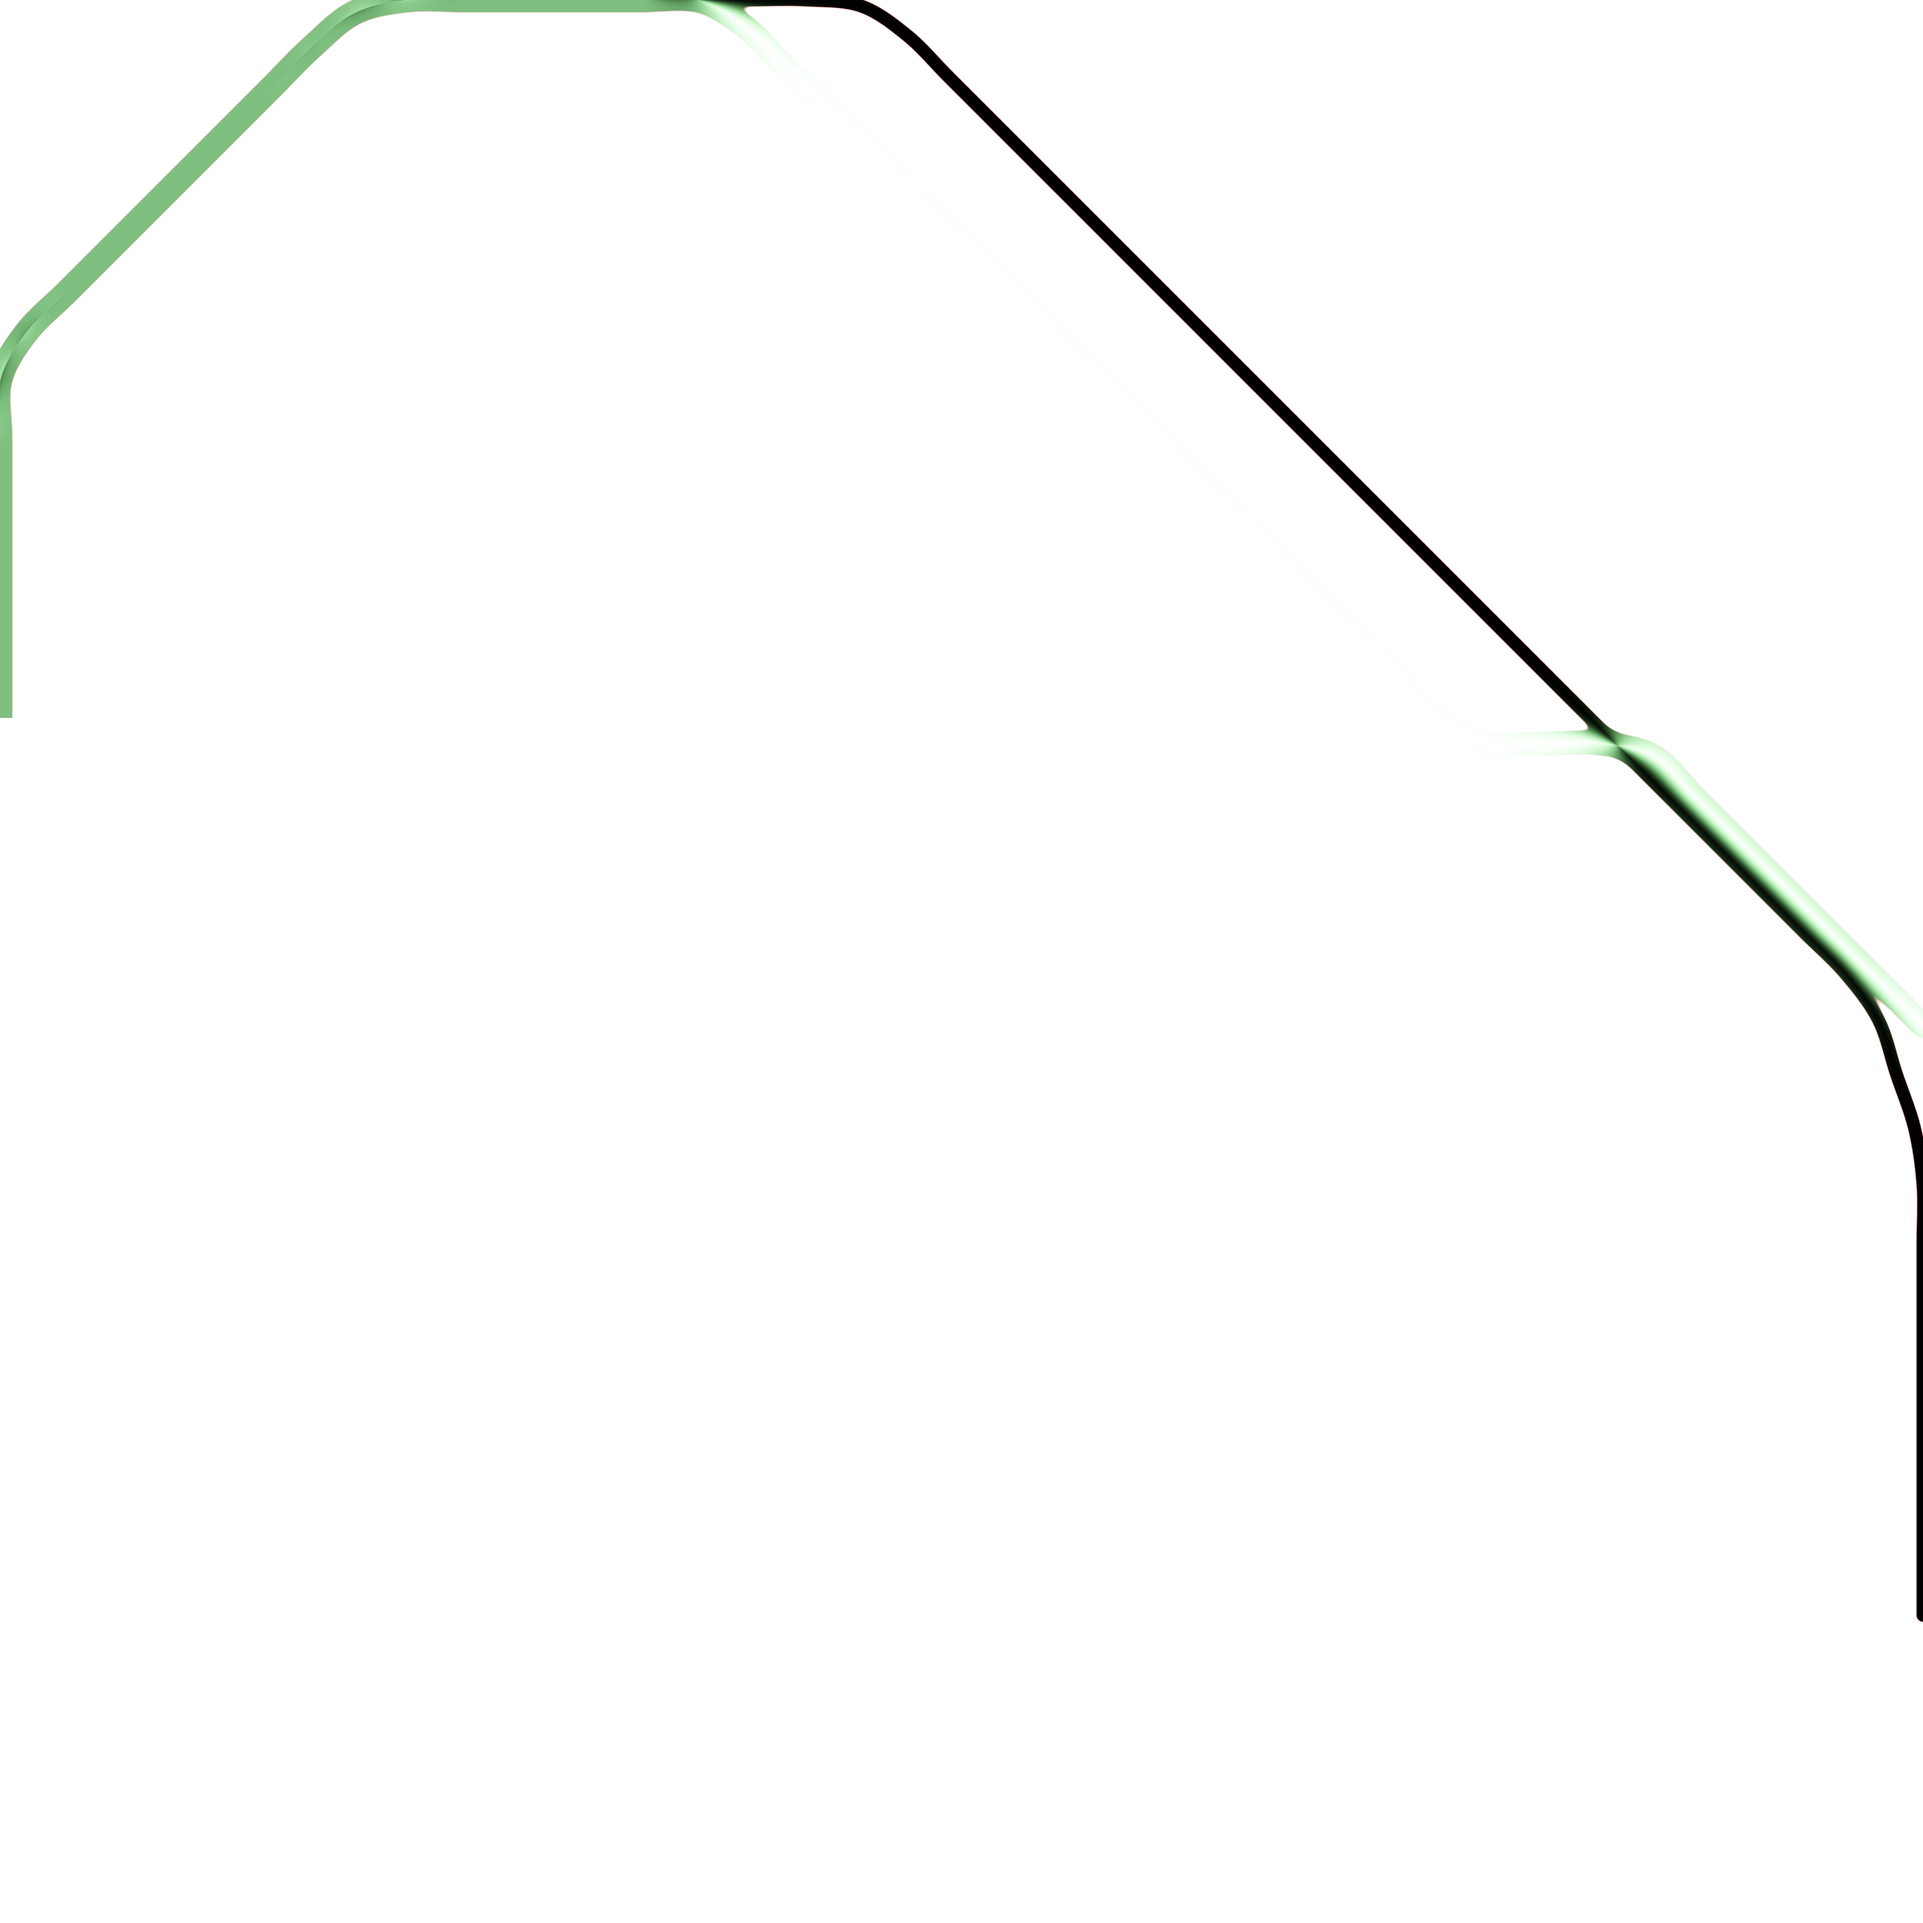
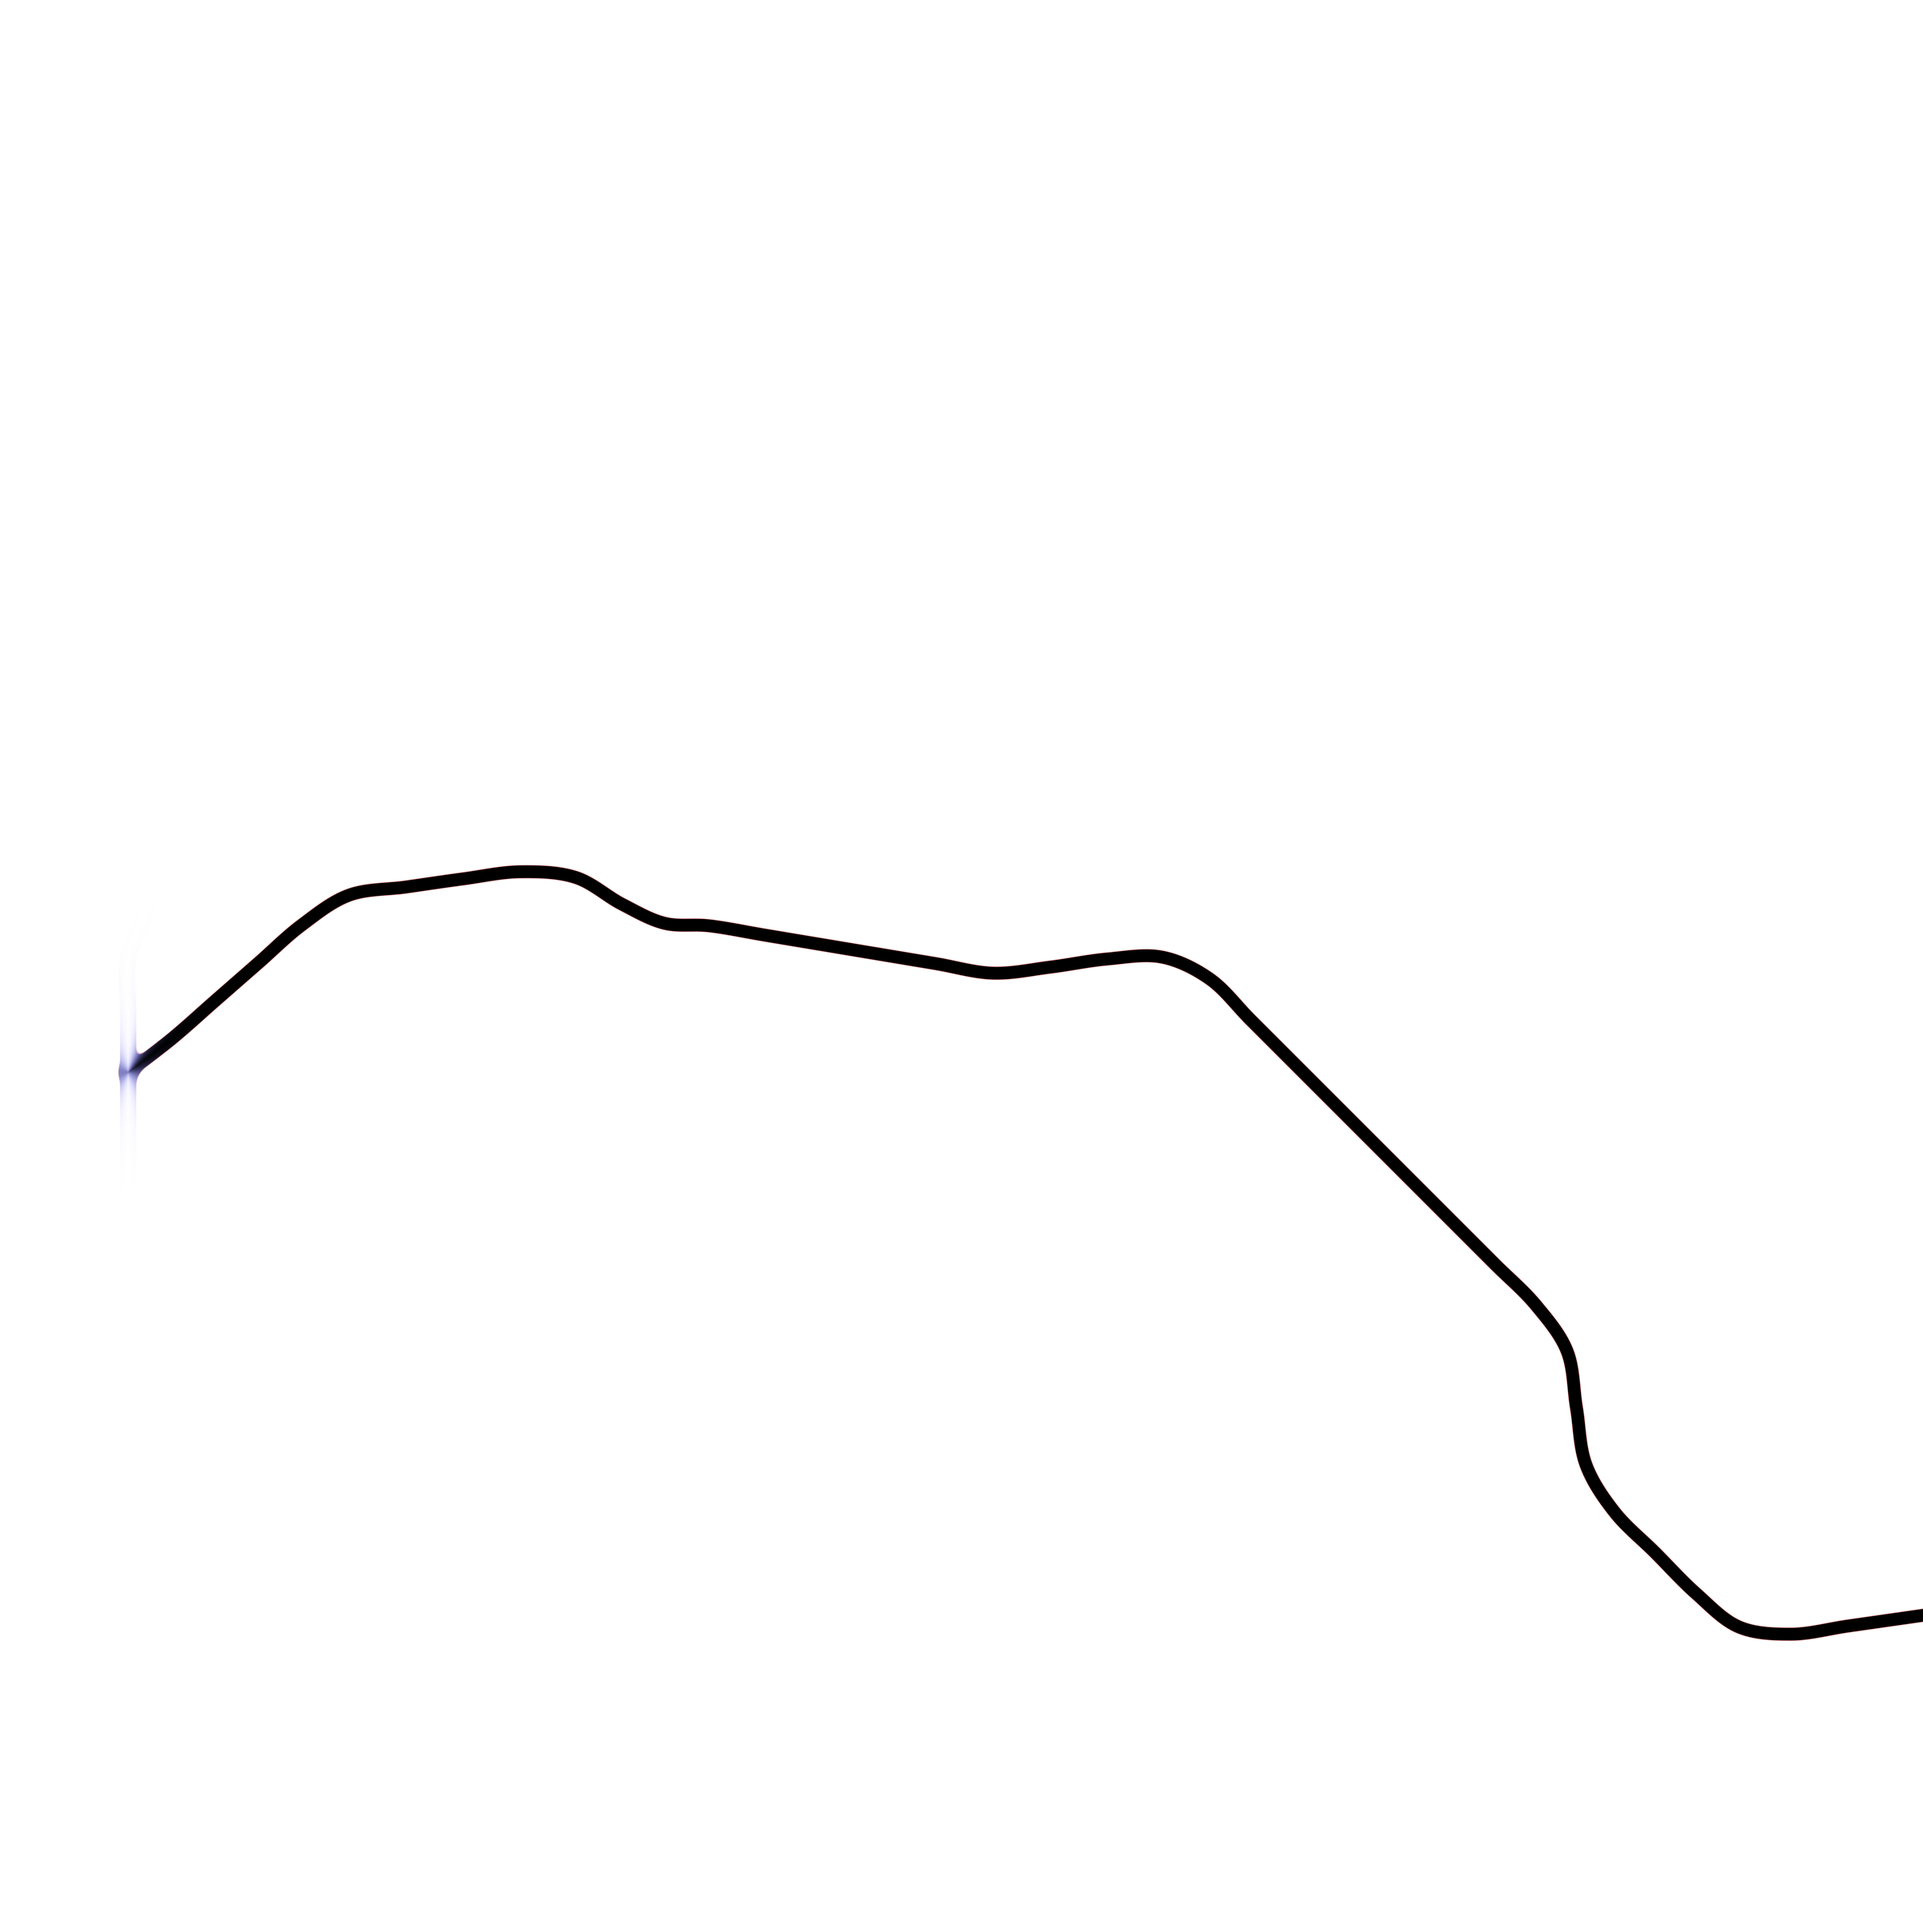
Scale the bake to 1200 m; fix two generator defects it exposed
WORLD is now env-driven, so run.js bakes any extent. 1200 m is 23.0 M cells,
~700 MB of typed arrays, 36 s. Every invariant holds: seams 9.1e-7 m, cracks
9.3e-7 m, streaming bit-identical to a cold build, grass-vs-mesh p99 under
0.28 px at every distance, 156 k mesh vertices against 23.0 M uniform.

Road curvature p99.9 is what found both defects, going 53.7 -> 37.5 -> 3.1
against the 600 m map's 3.1:

- Relief was summed, not normalised. Hills add, so raising --hills raised the
  whole world rather than populating it - 30 ellipses stacked to 149 m of relief
  over 1200 m, putting slopes near the batter almost everywhere. --relief now
  sets peak-to-peak and heights are rescaled to hit it, so count controls
  texture and relief controls amplitude. That alone took daylight p95 from
  5.4 m to 2.9 m, capped cells from 314 to zero, and dithered banding from
  12.3 mm rms to 4.9.

- Roads shared corridors. Cross-slope routing funnels everything down the same
  valleys; harmless with 3 roads, but with 6 it left two of them parallel 11 m
  apart with interleaved ditches. 100 % of the high-curvature cells in that bake
  had a second road within 45 m, and the worst pair sat at 5.66 m and 5.70 m
  from their respective centrelines - the diagnosis was unambiguous. Cells near
  an existing road now cost more, exempting a branch's start so it can still
  leave its host.

Avoidance costs some tiling ratio - 5.9x rather than 8.1x against uniform,
[…]

diff --git a/tools/terrain-bake/genmap.js b/tools/terrain-bake/genmap.js
@@ -40,16 +40,48 @@ function makeHills(rnd,W,n){
   }
   return out;
 }
+/* Hills are summed, so raising --hills raises the whole world rather than just
+   populating it: 30 ellipses stacked to 149 m of relief over 1200 m, which put slopes
+   near the batter everywhere and drove road curvature p99.9 from 3.3 to 53.7. Measure
+   the peak-to-peak the ellipse set actually produces and rescale to the target, so
+   hill COUNT controls texture and --relief alone controls amplitude. */
+function normalizeRelief(hills,W,target){
+  let lo=Infinity,hi=-Infinity;
+  for(let y=0;y<=W;y+=W/120)for(let x=0;x<=W;x+=W/120){
+    const h=fieldAt(hills,x,y);if(h<lo)lo=h;if(h>hi)hi=h;}
+  const span=hi-lo;if(!(span>0.01))return hills;
+  const k=target/span;
+  for(const e of hills)e.h=+(e.h*k).toFixed(2);
+  return hills;
+}
 const fieldAt=(hills,x,y)=>{let h=0;
   for(const e of hills){const d=Math.hypot((x-e.cx)/e.rx,(y-e.cy)/e.ry);
     if(d<1)h+=e.h*(1-ss((d-e.fo)/(1-e.fo)));}
   return h;};
 
 /* --- grade-penalised Dijkstra over a coarse lattice --- */
+/* Distance from each lattice node to any road already placed. Without this the
+   cross-slope penalty funnels every road down the same valleys, and at 1200 m two of
+   them ended up parallel 11 m apart with their ditches interleaved - 100 % of the
+   high-curvature cells in that bake had a second road within 45 m. A road either
+   joins a corridor at a junction or keeps well clear of it. */
+function occupancy(roads,W,C,n){
+  const occ=new Float64Array(n*n).fill(Infinity);
+  for(const r of roads)for(let s=1;s<r.pts.length;s++){
+    const A=r.pts[s-1],Bp=r.pts[s],vx=Bp[0]-A[0],vy=Bp[1]-A[1],vv=vx*vx+vy*vy;
+    for(let j=0;j<n;j++)for(let i=0;i<n;i++){
+      const x=i*C,y=j*C;
+      let u=vv>1e-12?((x-A[0])*vx+(y-A[1])*vy)/vv:0;u=u<0?0:u>1?1:u;
+      const d=Math.hypot(x-(A[0]+vx*u),y-(A[1]+vy*u)),o=j*n+i;
+      if(d<occ[o])occ[o]=d;}
+  }
+  return occ;
+}
 function route(hills,W,a,b,opt){
   const C=opt.cell,n=Math.round(W/C)+1,idx=(i,j)=>j*n+i;
   const H=new Float64Array(n*n);
   for(let j=0;j<n;j++)for(let i=0;i<n;i++)H[idx(i,j)]=fieldAt(hills,i*C,j*C);
+  const occ=opt.occ||null, AR=opt.avoidR||0;
   const NB=[[1,0],[-1,0],[0,1],[0,-1],[1,1],[1,-1],[-1,1],[-1,-1]];
   const dist=new Float64Array(n*n).fill(Infinity),prev=new Int32Array(n*n).fill(-1);
   const s=idx(Math.round(a[0]/C),Math.round(a[1]/C)),g=idx(Math.round(b[0]/C),Math.round(b[1]/C));
@@ -79,8 +111,16 @@ function route(hills,W,a,b,opt){
       const px=(dx||1e-9),py=(dy||0),pl=Math.hypot(px,py);
       const nx=-py/pl,ny=px/pl;                          /* unit normal to travel */
       const cross=Math.abs(fieldAt(hills,mx+nx*e,my+ny*e)-fieldAt(hills,mx-nx*e,my-ny*e))/(2*e);
-      const cost=len*(1+opt.gradeWeight*Math.pow(grade/opt.maxGrade,2)
-                       +opt.crossWeight*Math.pow(Math.min(cross,opt.batter*0.98)/opt.batter,2));
+      let cost=len*(1+opt.gradeWeight*Math.pow(grade/opt.maxGrade,2)
+                     +opt.crossWeight*Math.pow(Math.min(cross,opt.batter*0.98)/opt.batter,2));
+      if(occ&&AR>0){
+        /* exempt the neighbourhood of the start so a branch can leave its host */
+        const sx=vi*C-a[0],sy=vj*C-a[1];
+        if(Math.hypot(sx,sy)>AR){
+          const d=occ[v];
+          if(d<AR)cost+=len*opt.avoidWeight*Math.pow(1-d/AR,2);
+        }
+      }
       if(d+cost<dist[v]){dist[v]=d+cost;prev[v]=u;push([d+cost,v]);}
     }
   }
@@ -201,7 +241,7 @@ function edgePoint(rnd,W){const s=Math.floor(rnd()*4),t=W*(0.15+rnd()*0.7);
 const CLASS=[['asphalt',7.0],['dirt',4.6],['cobble',3.6]];
 
 function generate(o){
-  const rnd=rng(o.seed),W=o.world,hills=makeHills(rnd,W,o.hills);
+  const rnd=rng(o.seed),W=o.world,hills=normalizeRelief(makeHills(rnd,W,o.hills),W,o.relief);
   const opt={cell:o.cell,maxGrade:o.maxGrade,gradeWeight:o.naive?0:o.gradeWeight,
     crossWeight:o.naive?0:o.crossWeight,batter:o.batter};
   const roads=[];
@@ -220,7 +260,8 @@ function generate(o){
       const hi=1+Math.floor(rnd()*(host.pts.length-2));
       const a=host.pts[hi],b=edgePoint(rnd,W);
       if(Math.hypot(b[0]-a[0],b[1]-a[1])<W*0.25)continue;
-      const p=route(hills,W,a,b,opt);
+      const nn=Math.round(W/opt.cell)+1;
+      const p=route(hills,W,a,b,Object.assign({},opt,{occ:occupancy(roads,W,opt.cell,nn),avoidR:o.avoidR,avoidWeight:o.avoidWeight}));
       if(!p||p.length<4)continue;
       const dep=Math.min(CLASS.length-1,host.depth+1);
       const ph=bake.prismHalf(bake.MATERIALS[CLASS[dep][0]],CLASS[dep][1]/2);
@@ -250,6 +291,8 @@ if(require.main===module){
     hills:+get('--hills',12),cell:+get('--cell',8),maxGrade:+get('--max-grade',0.10),
     gradeWeight:+get('--grade-weight',5),eps:+get('--eps',7),minR:+get('--min-radius',30),step:+get('--step',18),
     crossWeight:+get('--cross-weight',12),batter:+get('--batter',0.5),
+    avoidR:+get('--avoid-radius',45),avoidWeight:+get('--avoid-weight',30),
+    relief:+get('--relief',60),
     naive:a.indexOf('--naive')>=0,out:get('--out',__dirname+'/map.svg')};
   const m=generate(o);
   if(!m){console.error('genmap: no route found for seed '+o.seed);process.exit(1);}

diff --git a/tools/terrain-bake/bake.js b/tools/terrain-bake/bake.js
@@ -10,7 +10,7 @@
 const fs=require('fs'),path=require('path');
 const {png}=require('./png.js');
 
-const WORLD=600, RES=0.25, N=Math.round(WORLD/RES);        /* 2400^2 @ 0.25 m */
+const WORLD=+(process.env.WORLD||600), RES=0.25, N=Math.round(WORLD/RES);   /* 0.25 m grid */
 const LOW=1.0, NL=Math.round(WORLD/LOW);                    /* authored base grid */
 const BLUR_M=5.0, NOISE_AMP=2.6, NOISE_BASE=70, NOISE_OCT=5;
 const DS=2.0, MAX_GRADE=0.08, GRADE_ITERS=600;              /* 8 % longitudinal */

diff --git a/tools/terrain-bake/run.js b/tools/terrain-bake/run.js
@@ -439,4 +439,4 @@ fs.writeFileSync(P.join(OUT,'stats.json'),JSON.stringify(stats,null,2));
 
 if(require.main===module)console.log(JSON.stringify({tiling:stats.tiling.sweep.map(r=>({TILE:r.TILE,MB:r.MB})),meshLod:stats.meshLod},null,2));
 log('done');
-module.exports={map,natural,dist,rid,sarc,height,splat,stats,elevAt,xyAt,nat,base};
+module.exports={map,natural,dist,rid,sarc,dist1,rid1,sarc1,height,splat,stats,elevAt,xyAt,nat,base};

diff --git a/tools/terrain-bake/README.md b/tools/terrain-bake/README.md
@@ -38,6 +38,39 @@ Two cost terms, and both were found by measuring the bake rather than by taste:
   junction curvature falling with it was the surprise: what looked like a junction defect
   was two over-wide daylight cones meeting, not the junction geometry at all.
 
+- **Road avoidance.** Cross-slope routing funnels every road down the same valleys. At
+  600 m with 3 roads that is harmless; at 1200 m with 6 it put two of them parallel
+  **11 m apart** with their ditches interleaved. Cells within `--avoid-radius` of a road
+  already placed cost more, exempting the neighbourhood of a branch's start so it can
+  still leave its host.
+
+- **Relief is normalised, not summed.** Hills add, so raising `--hills` used to raise the
+  whole world: 30 ellipses stacked to 149 m of relief over 1200 m. `--relief` (default
+  60 m) sets the peak-to-peak and the ellipse heights are rescaled to hit it, so hill
+  count controls texture and relief alone controls amplitude.
+
+## Scaling to 1200 m
+
+    node genmap.js --seed 7 --world 1200 --hills 30 --roads 6 --out map1200.svg
+    WORLD=1200 MAP=map1200.svg OUTDIR=out1200 node --max-old-space-size=8192 run.js
+
+23.0 M cells, ~700 MB of typed arrays, 36 s. Everything holds - seams 9.1e-7 m, cracks
+9.3e-7 m, streaming still bit-identical to a cold build, grass-vs-mesh p99 under 0.28 px
+at every distance, 156 k mesh vertices against 23.0 M for a uniform 0.25 m mesh.
+
+Both generator fixes above were found here, and road curvature p99.9 is the number that
+found them:
+
+    149 m relief, roads sharing corridors ......... 53.7
+    relief normalised to 60 m ..................... 37.5
+    roads avoiding each other ......................  3.1   (600 m map: 3.1)
+
+Tiling is 7.42 MB against 43.95 MB uniform, 5.9x - a weaker ratio than the 8.1x before
+avoidance, because roads that no longer share corridors cover more ground. The shipped
+pack is 7.44 MB gzipped, of which `roaduv.png` is 1.60 MB for a texture that is empty
+away from roads; storing it per corridor tile rather than world-wide is the obvious next
+saving.
+
 ### The guard that matters
 
 After writing the SVG, genmap reads it **back**, flattens the beziers exactly as
